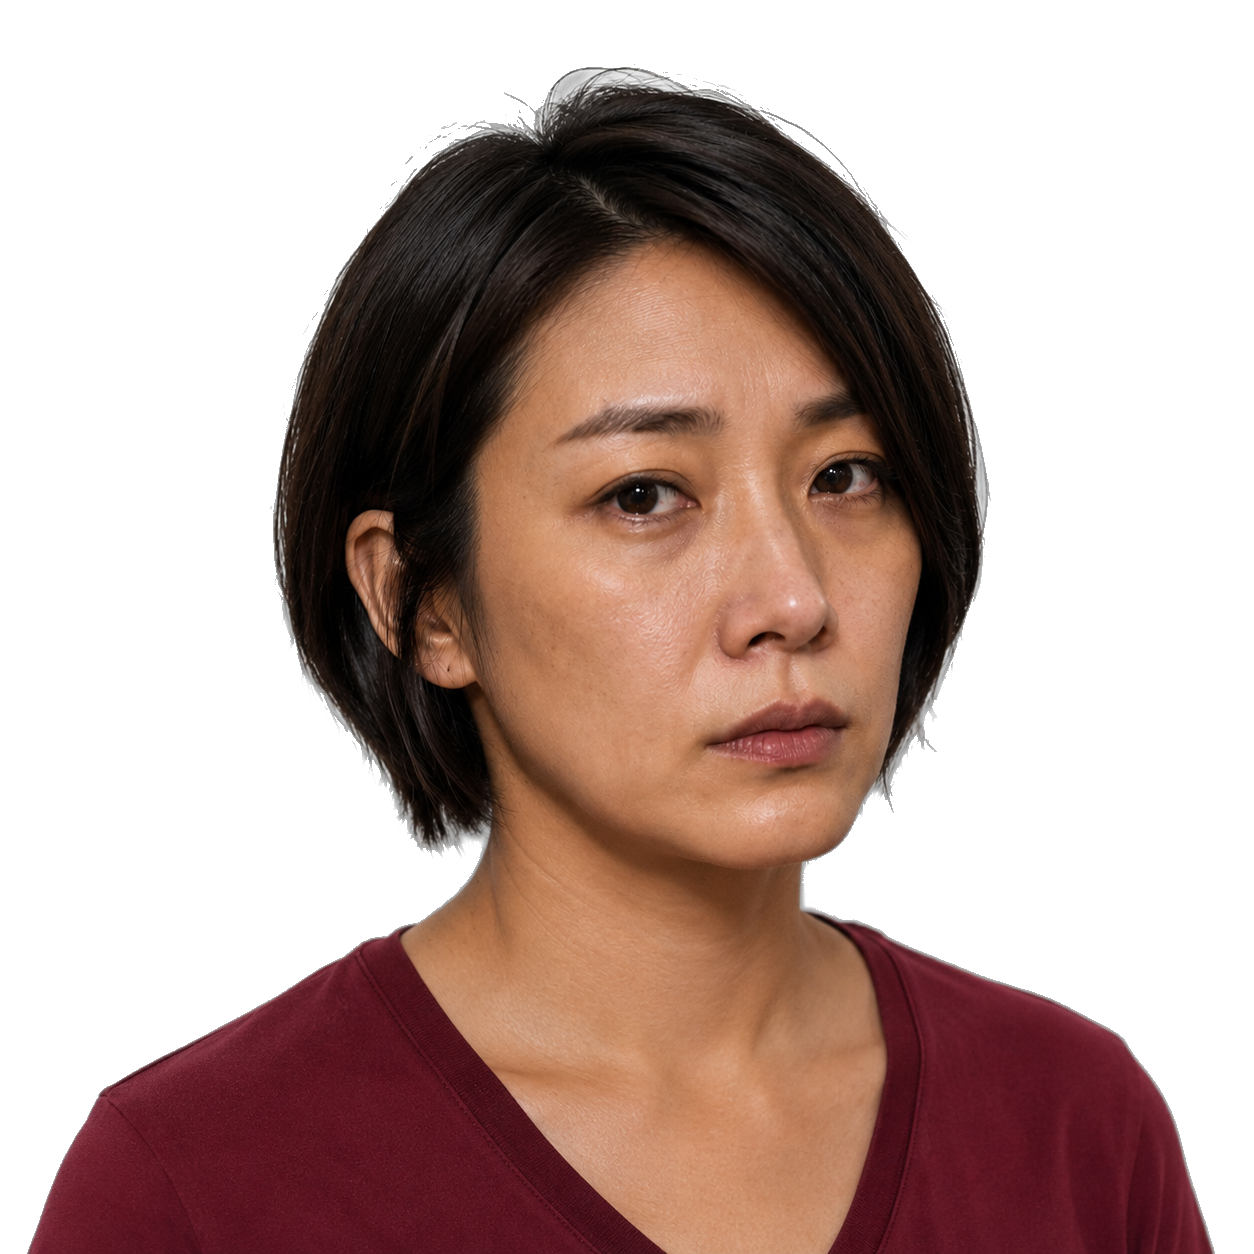
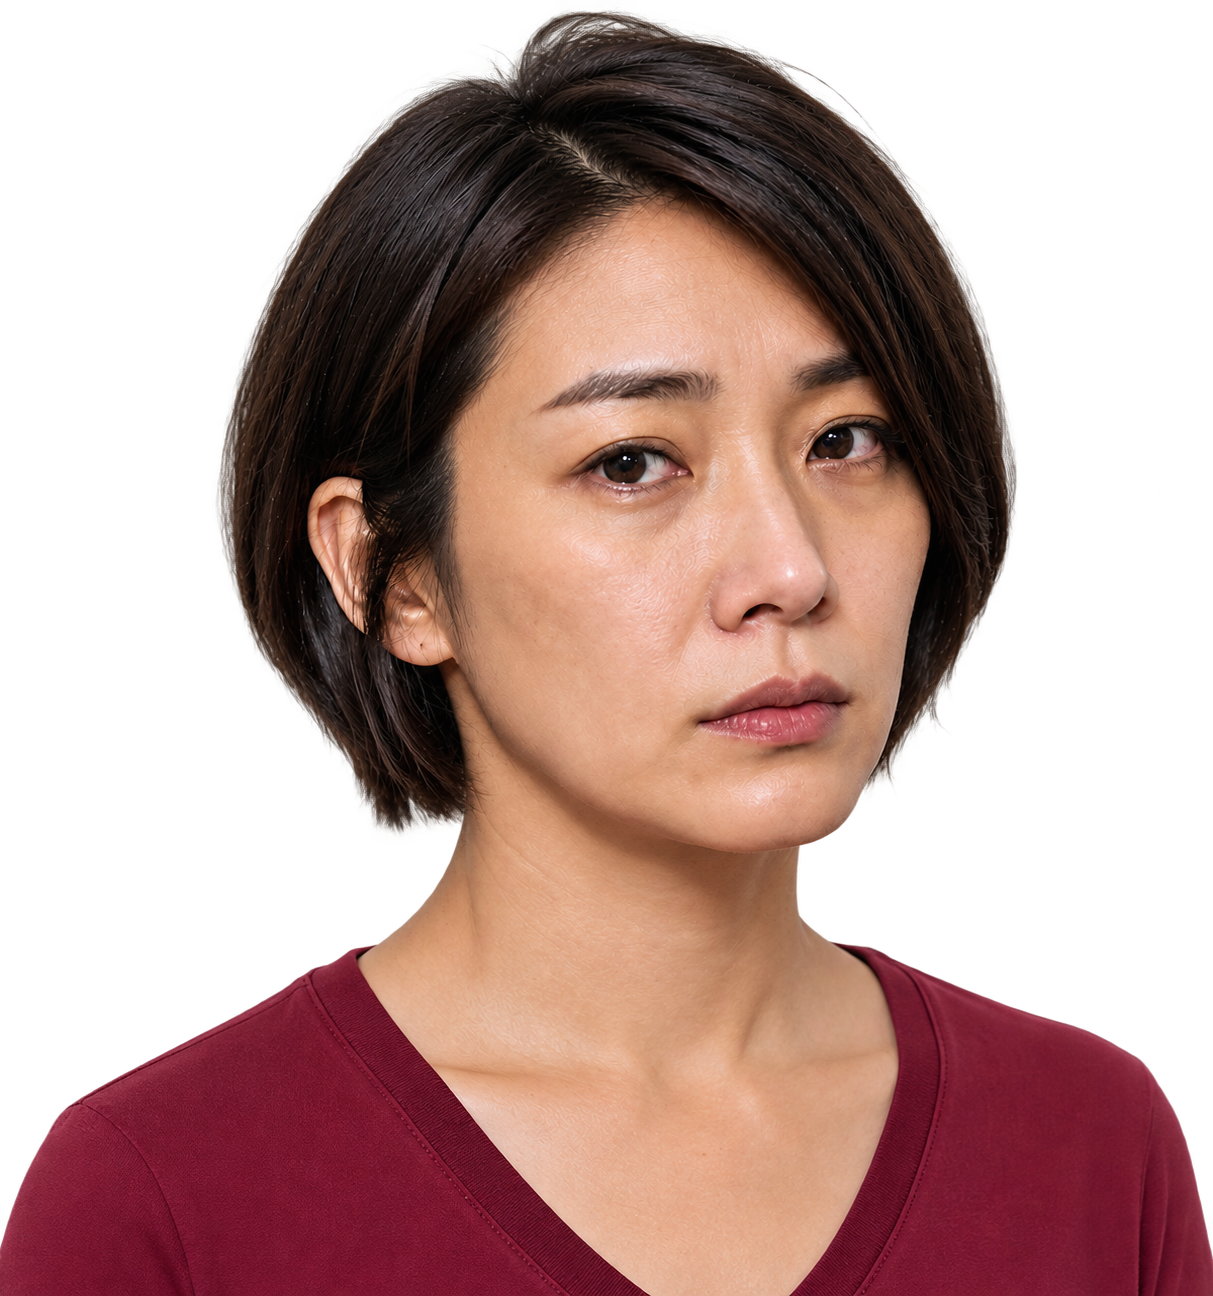
換新大頭貼+光明巷多兩個背景角色（kc 給圖+「多放兩個妓女在這條街」）
worker-portrait.png 換成 kc 提供的新去背版本，快取版號 v3→v4。

光明巷加兩個純背景裝飾角色（跟 clientNPC 同一等級，沒有 nearProp/
對話），接上這輪新下載的 f4(Elizabeth)/f5(Kate) 備用骨架，z 挑在巷子
兩端避開既有牆面裝飾。

Claude-Session: https://claude.ai/code/session_01CVuw3zEoGBvkzBjpLZ8qph

diff --git a/prototypes/game.html b/prototypes/game.html
@@ -1758,7 +1758,7 @@ const PORTRAIT_IMGS = {
   /* worker/acheng(2026-08-20)——廟口真人頭像這輪的前兩張,阿源/阿姨
      還沒生,那兩個 key 沒進這個表之前 drawPortrait() 會自動退回
      SF.person() 像素小人(既有 fallback,不會壞)。 */
-  worker: loadPortraitImg('../assets/bg/worker-portrait.png?v=3'),
+  worker: loadPortraitImg('../assets/bg/worker-portrait.png?v=4'),
   acheng: loadPortraitImg('../assets/bg/acheng-portrait.png?v=3'),
   ayi:    loadPortraitImg('../assets/bg/ayi-portrait.png?v=2'),
   yuan:   loadPortraitImg('../assets/bg/yuan-portrait.png?v=3'),
@@ -1781,6 +1781,12 @@ const PORTRAIT_IMGS = {
      生圖工具自己的透明示意畫面被存成真的像素」這個坑,以後遇到同款
      棋盤格背景圖都可以先試同一支腳本。 */
   foreman: loadPortraitImg('../assets/bg/foreman-portrait.png?v=2'),
+  /* 老師/阿嬤(2026-09-03)——之前一直退回 SF.person() 像素小人(見 WHO.teacher/
+     WHO.granny 那兩則筆記的先例說明),這輪 kc 補真人照片,跟其他角色同一套
+     接法:PORTRAIT_IMGS 加一行,WHO 的顏色設定不用動,drawPortrait() 自動
+     改用照片。 */
+  teacher: loadPortraitImg('../assets/bg/teacher-portrait.png?v=1'),
+  granny:  loadPortraitImg('../assets/bg/granny-portrait.png?v=1'),
   /* 阿正(2026-08-31)——先接資料,照片還沒生,跟 worker/bo/motoboss/foreman
      當初同一套先例:檔案還沒存在時 img.naturalWidth 是 0,drawPortrait()
      自動退回 SF.person() 像素小人,不會壞,kc 丟真的照片進來對話框會
@@ -3244,6 +3250,26 @@ const clientNPC = buildNPC(THREE, scene, {
   hood:'#33383f', pants:'#26241f', shoe:'#3a3430'
 });
 NPCS.push(clientNPC);
+/* 再多兩個(2026-09-03,kc:「多放兩個妓女在這條街」)——跟 workerNPC
+   同一個等級的純背景裝飾(沒有 nearProp/對話,不是新增兩條可互動的
+   支線角色),讓光明巷讀起來不只有一個人在站,呼應「這裡正在發生」的
+   感覺。剛好接上這輪新下載的 f4(Elizabeth)/f5(Kate)——備用骨架
+   派上用場,不用再另外找。z 挑巷子兩端(-30 靠中華路那頭、-50 靠廟口路
+   那頭),跟 ALLEY_WORKER(z:-38)/clientNPC(z:-36.6)拉開,也避開
+   alley() 自己排的冷氣機/電表箱/紙箱堆那些牆面裝飾的 z 位置(見
+   scene-city3d.js alley() 那則長筆記量過的座標)。 */
+const alleyWorker2 = buildNPC(THREE, scene, {
+  x:-26.4, z:-30, rotationY:Math.PI*.15, rig:'f4',
+  skin:'#c9a077', hair:'#2a1f1a',
+  hood:'#3a5f52', pants:'#26241f', shoe:'#3a3430'
+});
+NPCS.push(alleyWorker2);
+const alleyWorker3 = buildNPC(THREE, scene, {
+  x:-21.6, z:-50, rotationY:-Math.PI*.35, rig:'f5',
+  skin:'#d1a67e', hair:'#c9a24a',
+  hood:'#4a3a5f', pants:'#2b2b2b', shoe:'#3a3430'
+});
+NPCS.push(alleyWorker3);
 
 /* 隨地小便(2026-08-26)——kc 要的「不只是偷東西」那類小事件之一,借同一條
    巷子(alley(-24,-27,-51))裡跟 ALLEY_WORKER(z:-38)拉開距離的另一端,
